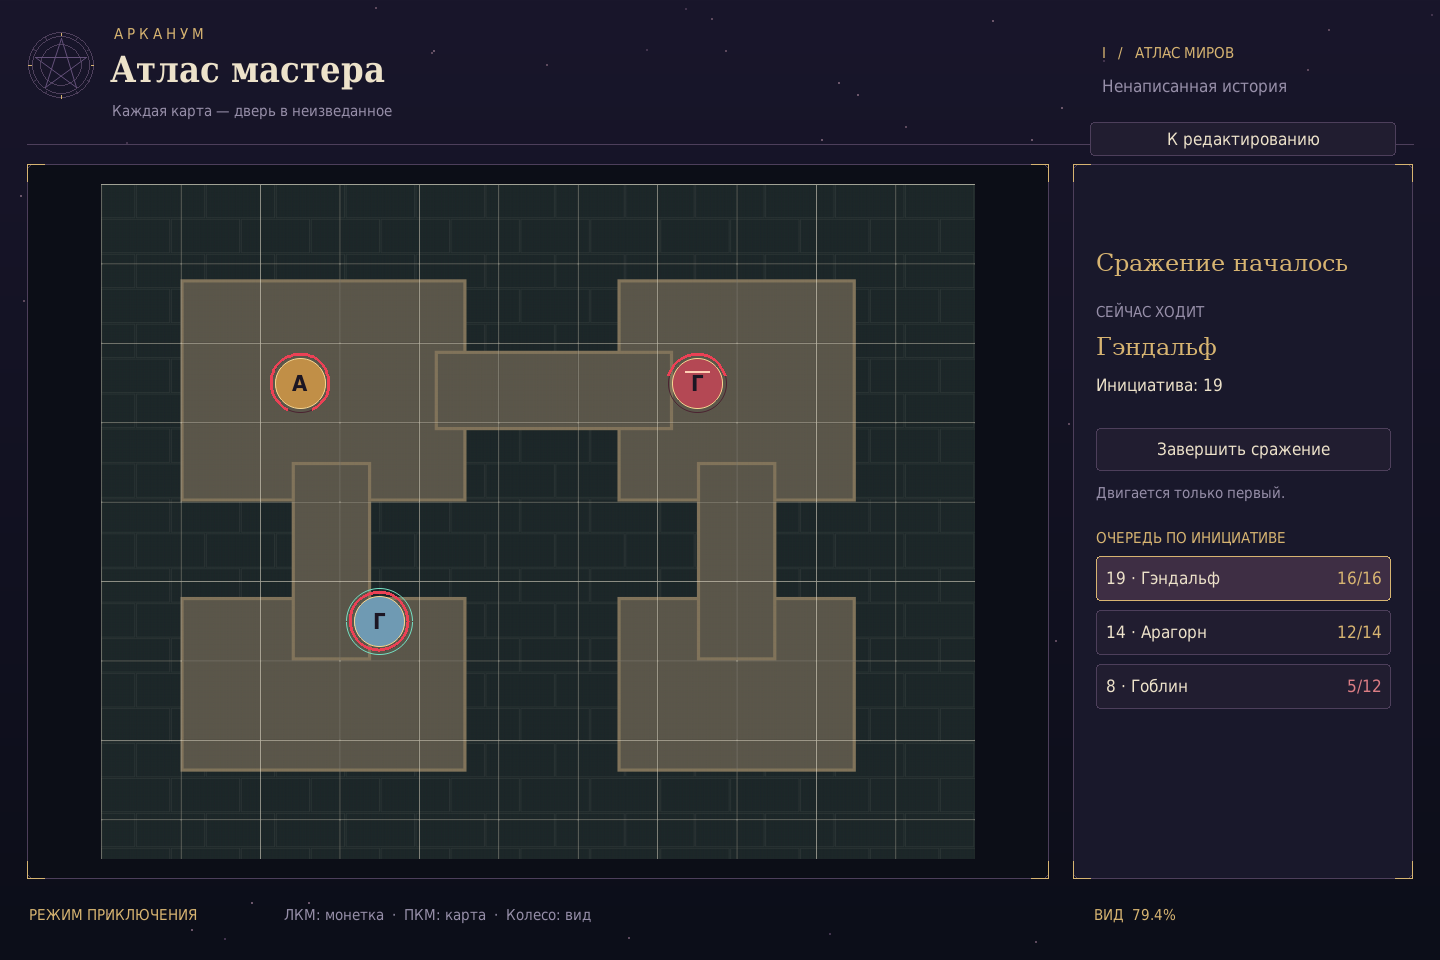
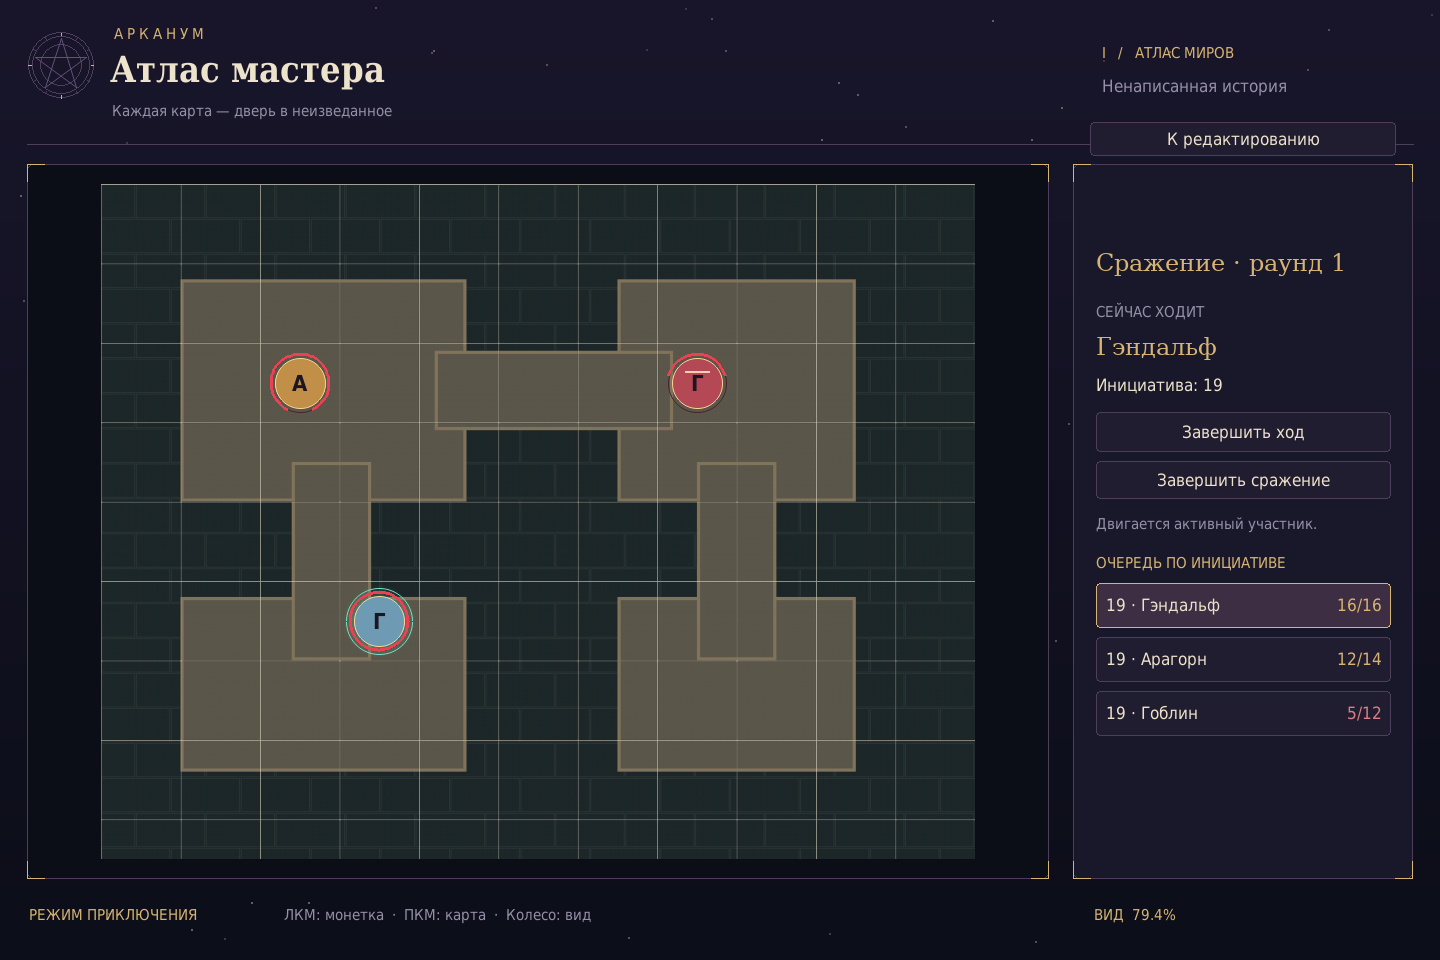
Add turn rotation, hero initiative tie selection and active token glow

Changed region(s): [[0.75, 0.4375, 0.9688, 0.75], [0.8438, 0.25, 0.9375, 0.2812]]

diff --git a/battle.py b/battle.py
@@ -1,4 +1,4 @@
-"""Initiative entry and the first active turn of a local battle."""
+"""Initiative entry, tie resolution and turn rotation of a local battle."""
 
 import math
 import pygame
@@ -22,8 +22,74 @@ class BattleMode:
         self.initiative_text = ""
         self.turn_order = []
         self.active_actor = None
+        self.turn_position = 0
+        self.round_number = 1
+        self.tie_groups = []
+        self.tie_remaining = []
+        self.tie_choices = []
+        self.tie_scroll = 0
+
+    def activate_battle(self):
+        self.battle_state = "active"
+        self.turn_position = 0
+        self.round_number = 1
+        self.select_active_turn()
+
+    def select_active_turn(self):
+        self.active_actor = self.turn_order[self.turn_position]
+        self.selected_player = self.active_actor
+        self.token_drag = None
+        self.player_scroll = max(0, self.turn_position-self.roster_capacity()+1)
+        self.notify(f"Ход: {self.players[self.active_actor].name}. Раунд {self.round_number}.")
+
+    def prepare_turn_order(self):
+        self.turn_order = sorted(range(len(self.players)),
+                                 key=lambda i: (-self.players[i].initiative, self.players[i].kind == "enemy"))
+        values = sorted({p.initiative for p in self.players}, reverse=True)
+        self.tie_groups = [[i for i in self.turn_order if self.players[i].initiative == value
+                            and self.players[i].kind == "player"] for value in values]
+        self.tie_groups = [group for group in self.tie_groups if len(group) > 1]
+        if self.tie_groups:
+            self.battle_state = "ties"
+            self.tie_remaining = self.tie_groups[0].copy()
+            self.tie_choices = []
+            self.tie_scroll = 0
+        else:
+            self.activate_battle()
+        pygame.key.stop_text_input()
 
     def battle_action(self, action):
+        if action == "end_turn":
+            if self.battle_state == "active":
+                self.turn_position = (self.turn_position+1) % len(self.turn_order)
+                if self.turn_position == 0:
+                    self.round_number += 1
+                self.select_active_turn()
+                self.layout()
+            return True
+        if action.startswith("tie_"):
+            if self.battle_state != "ties":
+                return True
+            chosen = int(action.split("_")[1])
+            if chosen not in self.tie_remaining:
+                return True
+            self.tie_choices.append(chosen)
+            self.tie_remaining.remove(chosen)
+            if len(self.tie_remaining) == 1:
+                self.tie_choices.extend(self.tie_remaining)
+                group = self.tie_groups.pop(0)
+                slots = [j for j, i in enumerate(self.turn_order) if i in group]
+                for slot, actor in zip(slots, self.tie_choices):
+                    self.turn_order[slot] = actor
+                if self.tie_groups:
+                    self.tie_remaining = self.tie_groups[0].copy()
+                    self.tie_choices = []
+                else:
+                    self.tie_remaining = []
+                    self.activate_battle()
+            self.tie_scroll = 0
+            self.layout()
+            return True
         if action == "start_battle":
             if self.battle_state is not None:
                 return True
@@ -57,14 +123,7 @@ class BattleMode:
             self.initiative_index += 1
             self.initiative_text = ""
             if self.initiative_index == len(self.players):
-                self.battle_state = "active"
-                # Equal initiative keeps the order in which actors were added.
-                self.turn_order = sorted(range(len(self.players)), key=lambda i: -self.players[i].initiative)
-                self.active_actor = self.turn_order[0]
-                self.selected_player = self.active_actor
-                self.player_scroll = 0
-                pygame.key.stop_text_input()
-                self.notify(f"Первым ходит {self.players[self.active_actor].name}.")
+                self.prepare_turn_order()
             self.layout()
             return True
         if action == "end_battle":
@@ -77,6 +136,23 @@ class BattleMode:
         return False
 
     def handle_battle_event(self, event):
+        if self.battle_state == "ties":
+            if event.type == pygame.MOUSEWHEEL:
+                self.tie_scroll = max(0, min(max(0, len(self.tie_remaining)-5), self.tie_scroll-event.y))
+                self.layout()
+                return True
+            if event.type == pygame.MOUSEBUTTONDOWN:
+                if event.button == 1:
+                    for rect, action in self.buttons:
+                        if rect.collidepoint(event.pos):
+                            self.action(action)
+                            break
+                return True
+            if event.type == pygame.KEYDOWN and event.key == pygame.K_ESCAPE:
+                self.battle_action("end_battle")
+                return True
+            if event.type in (pygame.KEYDOWN, pygame.TEXTINPUT, pygame.MOUSEMOTION, pygame.MOUSEBUTTONUP):
+                return True
         if self.battle_state != "setup":
             return False
         if event.type == pygame.TEXTINPUT:
@@ -116,14 +192,20 @@ class BattleMode:
             cursor = "|" if pygame.time.get_ticks()%1000 < 500 else ""
             self.label(self.initiative_text+cursor, (x+12, 389), PALE, "value")
             self.label("Enter — подтвердить", (x, 500), MUTED, "small")
-            self.label("При равенстве — порядок", (x, 540), MUTED, "small")
-            self.label("добавления участников.", (x, 565), MUTED, "small")
+            self.label("При равенстве герой раньше врага.", (x, 540), MUTED, "small", 262)
+            self.label("Порядок героев выберет мастер.", (x, 565), MUTED, "small", 262)
+        elif self.battle_state == "ties":
+            self.label("Решение мастера", (x, 220), GOLD, "heading")
+            value = self.players[self.tie_remaining[0]].initiative
+            self.label(f"Одинаковая инициатива: {value}", (x, 268), PALE, "small")
+            self.label("Выберите, кто будет раньше:", (x, 300), MUTED, "small")
+            self.label("Выбирайте по порядку.", (x, 585), MUTED, "small")
         else:
             actor = self.players[self.active_actor]
-            self.label("Сражение началось", (x, 220), GOLD, "heading")
+            self.label(f"Сражение · раунд {self.round_number}", (x, 220), GOLD, "heading", 262)
             self.label("СЕЙЧАС ХОДИТ", (x, 268), MUTED, "small")
             self.label(actor.name, (x, 295), GOLD, "heading", 260)
             self.label(f"Инициатива: {actor.initiative}", (x, 333), PALE)
-            self.label("Двигается только первый.", (x, 430), MUTED, "small")
-            self.label("ОЧЕРЕДЬ ПО ИНИЦИАТИВЕ", (x, 470), GOLD, "small")
+            self.label("Двигается активный участник.", (x, 458), MUTED, "small", 262)
+            self.label("ОЧЕРЕДЬ ПО ИНИЦИАТИВЕ", (x, 492), GOLD, "small")
 

diff --git a/tests/test_main.py b/tests/test_main.py
@@ -215,6 +215,8 @@ class MapAssistantTests(unittest.TestCase):
             for value in ("-2", "18", "18"):
                 self.app.initiative_text = value
                 self.app.action("confirm_initiative")
+            self.assertEqual(self.app.battle_state, "ties")
+            self.app.action("tie_1")
             self.assertEqual(self.app.turn_order, [1, 2, 0])
             self.assertEqual(self.app.active_actor, 1)
             self.app.draw()
@@ -236,6 +238,52 @@ class MapAssistantTests(unittest.TestCase):
             self.assertEqual(len(self.app.players), count)
             self.app.action("end_battle")
             self.assertIsNone(self.app.active_actor)
+
+    def test_hero_priority_manual_ties_and_round_rotation(self):
+        self.load()
+        self.app.action("toggle_mode")
+        for name, kind in (("Враг", "enemy"), ("Воин", "player"), ("Маг", "player"), ("Второй враг", "enemy")):
+            self.app.character_kind = kind
+            self.app.player_name = name
+            self.app.add_player()
+        self.app.action("start_battle")
+        for value in ("20", "20", "20", "5"):
+            self.app.initiative_text = value
+            self.app.action("confirm_initiative")
+        self.assertEqual(self.app.battle_state, "ties")
+        self.assertEqual(self.app.tie_remaining, [1, 2])
+        self.assertIsNone(self.app.active_actor)
+        self.app.draw()
+        rect = next(r for r, a in self.app.buttons if a == "tie_2")
+        self.app.handle_event(pygame.event.Event(pygame.MOUSEBUTTONDOWN, button=1, pos=rect.center))
+        self.assertEqual(self.app.turn_order, [2, 1, 0, 3])
+        self.assertEqual(self.app.active_actor, 2)
+        for actor in (1, 0, 3, 2):
+            self.app.token_drag = self.app.active_actor
+            self.app.action("end_turn")
+            self.assertEqual(self.app.active_actor, actor)
+            self.assertIsNone(self.app.token_drag)
+            self.app.draw()
+        self.assertEqual(self.app.round_number, 2)
+        self.app.action("end_battle")
+        self.assertEqual(self.app.round_number, 1)
+        self.assertEqual(self.app.turn_order, [])
+
+    def test_multiple_hero_tie_groups(self):
+        self.load()
+        self.app.action("toggle_mode")
+        for name in ("A", "B", "C", "D"):
+            self.app.player_name = name
+            self.app.add_player()
+        self.app.action("start_battle")
+        for value in ("15", "15", "7", "7"):
+            self.app.initiative_text = value
+            self.app.action("confirm_initiative")
+        self.app.action("tie_1")
+        self.assertEqual(self.app.tie_remaining, [2, 3])
+        self.assertEqual(self.app.battle_state, "ties")
+        self.app.action("tie_3")
+        self.assertEqual(self.app.turn_order, [1, 0, 3, 2])
 
     def test_health_arc_shrinks_symmetrically(self):
         from battle import health_arc_points

diff --git a/fantasy_ui.py b/fantasy_ui.py
@@ -74,10 +74,16 @@ class FantasyUI:
                 self.buttons = [(self.box(x, 448, 262, 38), "confirm_initiative"),
                                 (self.box(x, 620, 262, 38), "end_battle")]
                 order = []
+            elif self.battle_state == "ties":
+                self.buttons = [(self.box(x, 620, 262, 38), "end_battle")]
+                for row, i in enumerate(self.tie_remaining[self.tie_scroll:self.tie_scroll+5]):
+                    self.buttons.append((self.box(x, 340+row*46, 262, 38), f"tie_{i}"))
+                order = []
             elif self.battle_state == "active":
-                self.buttons = [(self.box(x, 380, 262, 38), "end_battle")]
+                self.buttons = [(self.box(x, 366, 262, 36), "end_turn"),
+                                (self.box(x, 410, 262, 34), "end_battle")]
                 order = self.turn_order
-                roster_start = 494
+                roster_start = 518
             for row, i in enumerate(order[self.player_scroll:self.player_scroll+self.roster_capacity()]):
                 self.buttons.append((self.box(x, roster_start+row*48, 262, 40), f"player_{i}"))
         self.buttons.append((self.box(self.sx+15, 108, 272, 30), "toggle_mode"))
@@ -211,7 +217,13 @@ class FantasyUI:
         labels["add_player"] = "+ Добавить участника"
         labels["start_battle"] = "Начать сражение"
         labels["confirm_initiative"] = "Начать бой" if self.initiative_index == len(self.players)-1 else "Следующий участник"
-        labels["end_battle"] = "Отменить" if self.battle_state == "setup" else "Завершить сражение"
+        labels["end_battle"] = "Отменить" if self.battle_state in ("setup", "ties") else "Завершить сражение"
+        labels["end_turn"] = "Завершить ход"
+        for i, actor in enumerate(self.players):
+            name = actor.name
+            while name and self.fonts["body"].size(name+"…")[0] > self.px(240):
+                name = name[:-1]
+            labels[f"tie_{i}"] = name + ("…" if name != actor.name else "")
         labels["kind_player"] = "Игрок"
         labels["kind_enemy"] = "Противник"
         for i, player in enumerate(self.players):

diff --git a/play.py b/play.py
@@ -122,7 +122,7 @@ class PlayMode(BattleMode):
         self.notify(f"{name} вступает в приключение.")
 
     def roster_capacity(self):
-        start = 494 if self.battle_state == "active" else 624
+        start = 518 if self.battle_state == "active" else 624
         return max(1, int((self.uh-start-72)//48))
 
     def play_action(self, action):
@@ -243,6 +243,14 @@ class PlayMode(BattleMode):
             x, y = round(center.x), round(center.y)
             if not self.canvas.colliderect(pygame.Rect(x-radius, y-radius, radius*2, radius*2)):
                 continue
+            if self.active_actor == i:
+                extent = max(5, round(radius*.48))
+                outer = radius+extent
+                glow = pygame.Surface((outer*2+2, outer*2+2), pygame.SRCALPHA)
+                for extra in range(extent, 0, -1):
+                    alpha = round(55*(1-extra/(extent+1))**1.5)
+                    pygame.draw.circle(glow, (104, 230, 194, alpha), (outer+1, outer+1), radius+extra)
+                self.screen.blit(glow, (x-outer-1, y-outer-1))
             pygame.gfxdraw.filled_circle(self.screen, x, y, radius, player.color)
             pygame.gfxdraw.aacircle(self.screen, x, y, radius, (246, 214, 145))
             if player.kind == "enemy":

diff --git a/README.md b/README.md
@@ -6,16 +6,19 @@
 
 ## Режим игры
 
-Монетки имеют жирную букву имени и красное кольцо здоровья. Длина кольца равна доле текущих ХП; при потере здоровья концы дуги симметрично расходятся от нижней точки, оставляя остаток кольца сверху. При 0 ХП красная дуга исчезает. Выбранная монетка выделена золотым внешним кольцом, активная в бою — мятным.
+Монетки имеют жирную букву имени и красное кольцо здоровья. Длина кольца равна доле текущих ХП; при потере здоровья концы дуги симметрично расходятся от нижней точки, оставляя остаток кольца сверху. При 0 ХП красная дуга исчезает. Выбранная монетка выделена золотым внешним кольцом, активная в бою — мятным кольцом и мягким свечением вокруг фишки.
 
 ### Начало сражения
 
-Добавьте участников и нажмите **«Начать сражение»**. Введите инициативу каждого по очереди и подтвердите Enter или кнопкой. Допустимы целые значения от −99 до 999; пустое значение не принимается. На последнем участнике кнопка **«Начать бой»** строит очередь по убыванию инициативы. Равенство разрешается порядком добавления. Очередь видна справа, двигаться может только первый участник. Передача хода, раунды, атаки и ограничения скорости пока не реализованы.
+Добавьте участников и нажмите **«Начать сражение»**. Введите инициативу каждого по очереди и подтвердите Enter или кнопкой. Допустимы целые значения от −99 до 999; пустое значение не принимается. На последнем участнике кнопка **«Начать бой»** строит очередь по убыванию инициативы. При равной инициативе герой ходит раньше противника. Если равенство между героями, перед началом боя мастер выбирает их порядок: сначала нажмите на того, кто должен идти раньше, затем на следующего (последний определяется автоматически). Несколько групп равенства разрешаются по очереди. Равенство между противниками пока сохраняет порядок добавления.
 
-Во время ввода инициативы монетки неподвижны. **«Отменить»** возвращает свободное перемещение. **«Завершить сражение»** снимает ограничения, сохраняя персонажей и их позиции. Для изменения состава или возврата к редактору сначала завершите бой.
+Очередь видна справа. Двигаться может только активный участник, его фишка подсвечена мятным свечением. **«Завершить ход»** передаёт управление следующему по инициативе; после последнего участника очередь начинается заново, счётчик раунда увеличивается. Порядок, выбранный мастером, сохраняется между раундами. Атаки, автоматический пропуск существ при 0 ХП и ограничения скорости пока не реализованы.
+
+Во время ввода инициативы и выбора порядка равных героев монетки неподвижны. **«Отменить»** возвращает свободное перемещение. **«Завершить сражение»** снимает ограничения, сохраняя персонажей и их позиции. Для изменения состава или возврата к редактору сначала завершите бой.
 
 ![Ввод инициативы](docs/screenshots/initiative-entry.png)
-![Первый ход](docs/screenshots/battle-first-turn.png)
+![Выбор мастера при равной инициативе](docs/screenshots/initiative-ties.png)
+![Активный ход и очередь](docs/screenshots/battle-first-turn.png)
 
 В форме создания выберите **Игрок** или **Противник**, укажите имя, текущие и максимальные ХП. Между полями можно переходить Tab / Shift + Tab. ХП — целые числа: максимум от 1 до 99999, текущие от 0 до максимума. В списке здоровье стоит справа от имени (`Игрок1 12/14`); длинные имена сокращаются. Противники отмечены подписью «Враг» и красной монеткой с дополнительной отметкой. Они добавляются и перемещаются по тем же правилам свободных клеток, что и игроки. Данные пока вводятся вручную; базы существ и заготовок ещё нет.
 
